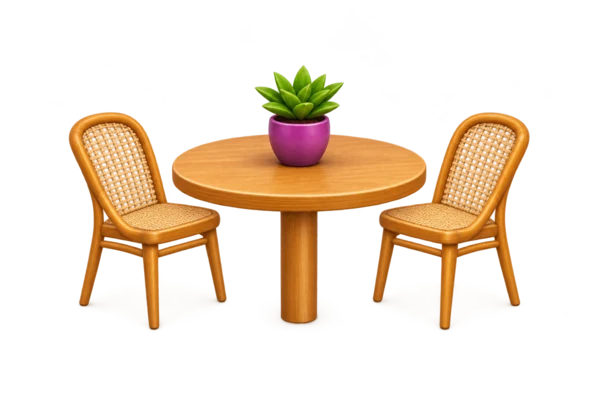
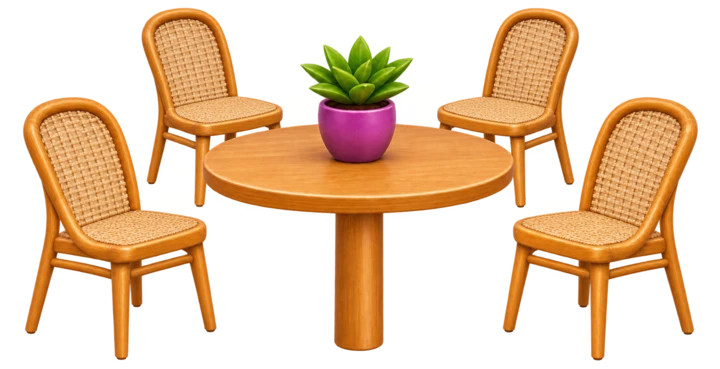
Sinaliza conta solicitada e usa ilustração com quatro cadeiras

diff --git a/erp/public/app.js b/erp/public/app.js
@@ -356,15 +356,31 @@ function tables() {
         '</strong></span><span class="finance-table-balance">Saldo <strong>'+money(balance)+'</strong></span></span>'+
         '<span class="finance-table-progress"><span aria-hidden="true"><i style="width:'+percent+'%"></i></span><span>'+percent+
         '% pago</span></span>'+(settled?'<span class="finance-table-note">Aguardando encerramento</span>':'')+
+        (t.billRequestedAt&&!settled?'<span class="table-bill-request">Conta solicitada</span>':'')+
         '<span class="finance-table-action">Conferir</span>':'')+'</button>';
   }).join('')+'</div></section>';
+}
+function requestTableBill(){
+  const expected=tableOrder();
+  if(!expected?.opened || tableTotal(expected)<=tablePaid(expected)){
+    notice('A comanda precisa ter saldo para solicitar a conta.');
+    return;
+  }
+  const requestedAt=expected.billRequestedAt?null:date();
+  fields(requestedAt?'Solicitar conta':'Limpar aviso da conta','<p>Mesa '+esc(expected.id)+'</p>',async ()=>{
+    await save(next=>{
+      const table=sameTable(next,expected);
+      if(requestedAt && tableTotal(table)<=tablePaid(table))throw review('A comanda já está quitada.');
+      table.billRequestedAt=requestedAt;
+    },true);
+  },requestedAt?'Solicitar conta':'Limpar aviso');
 }
 function openTable(id) {
   const t = data.tables.find(table=>table.id===id);
   const enter = () => { saleMode='comanda'; comandaTarget=id; selectedTable=id; selectedOpening=tableOrder().opened; view='sales'; };
   if (t.opened) { enter(); render(); void refreshTables(); return; }
   fields('Abrir mesa ' + id, input('Nome da mesa / cliente','name','','text','maxlength="100"'), async v => {
-    await save(next => Object.assign(sameTable(next,t), {name:v.name.trim(),opened:date(),service:true}), true);
+    await save(next => Object.assign(sameTable(next,t), {name:v.name.trim(),opened:date(),service:true,billRequestedAt:null}), true);
     enter();
   },'Abrir mesa');
 }
@@ -430,6 +446,7 @@ function receiveTable(partial=false){
           if(creditGroup)next.bills.push({id:crypto.randomUUID(),kind:'receber',saleId:id,party:customer.id,
             description:'Venda '+id.slice(0,8),amount:total,due:due.value,paid:null});
         }
+        if(tablePaid(current)>=tableTotal(current))current.billRequestedAt=null;
       },true);
       notice(change?'Pagamento registrado. Troco: '+money(change):'Pagamento registrado.');
     },'Confirmar pagamento');
@@ -491,7 +508,7 @@ function moveTable(){
     await save(next=>{
       const from=sameTable(next,source), to=sameTable(next,target);
       Object.assign(to,{...from,id:to.id});
-      Object.assign(from,{name:'',opened:null,items:[],payments:[],service:false});
+      Object.assign(from,{name:'',opened:null,items:[],payments:[],service:false,billRequestedAt:null});
     },true);
     selectedTable=comandaTarget=target.id;
     selectedOpening=source.opened;
@@ -509,7 +526,7 @@ function closeTable() {
       if (tableTotal(table)!==tablePaid(table) || table.items.length!==t.items.length || table.payments.length!==t.payments.length)
         throw review('A comanda mudou. Confira o consumo e os pagamentos.');
       next.closedTables.push({...structuredClone(table),id:table.id,receiptId:operationId,closed:date()});
-      Object.assign(table,{name:'',opened:null,items:[],payments:[],service:false});
+      Object.assign(table,{name:'',opened:null,items:[],payments:[],service:false,billRequestedAt:null});
     },true);
     const closed=data.closedTables.find(t=>t.receiptId===operationId);
     selectedTable=null;comandaTarget='';view='tables';
@@ -533,7 +550,7 @@ function cancelTable(){
         (next.tableCancellations??=[]).push({id:operationId,time:date(),table:t.id,customer:current.name,
           operator:session?.name||session?.login||'Caixa local',items:current.items,payments:current.payments,
           draft,total,paid,balance,draftTotal:sum(draft,'total')});
-        Object.assign(current,{name:'',opened:null,items:[],payments:[],service:false});
+        Object.assign(current,{name:'',opened:null,items:[],payments:[],service:false,billRequestedAt:null});
       },true);
       cart={};buyer=null;selectedTable=null;selectedOpening=null;comandaTarget='';counterService=true;view='tables';
       notice('Comanda cancelada. A mesa está livre.');
@@ -717,6 +734,7 @@ function openComandaCards(){
     return '<article class="open-comanda-card"><div class="open-comanda-heading"><span>'+icon+'</span><div><strong>'+esc(label)+'</strong>'+
       (table.name?'<small>'+esc(table.name)+'</small>':'')+'</div></div><div class="open-comanda-info"><span>'+
       count+(count===1?' item':' itens')+'</span><strong>'+money(tableTotal(table)-tablePaid(table))+'</strong></div>'+
+      (table.billRequestedAt&&tableTotal(table)>tablePaid(table)?'<span class="table-bill-request">Conta solicitada</span>':'')+
       '<button class="primary" data-table="'+esc(table.id)+'" aria-label="Conferir '+esc(label)+'">Conferir</button></article>';
   }).join('')+'</div>':'<p>Nenhuma mesa aberta com pedidos.</p>');
 }
@@ -755,7 +773,7 @@ function sales(){
       '<button class="primary wide" type="button" data-pay="" '+(lines.length?'':'disabled')+'>Salvar itens</button>';
     const actions=document.createElement('div');
     actions.className='comanda-review-actions';
-    actions.innerHTML='<button data-rename>Editar nome</button><button data-move-table>Mudar mesa</button>'+
+    actions.innerHTML=(tableTotal(t)>paid?'<button class="table-bill-request" data-request-table-bill>'+(t.billRequestedAt?'Conta solicitada · Limpar aviso':'Solicitar conta')+'</button>':'')+'<button data-rename>Editar nome</button><button data-move-table>Mudar mesa</button>'+
       '<button data-print-order>Espelho da comanda</button><button data-fee aria-pressed="'+Boolean(t.service)+'">'+(t.service?'Retirar':'Incluir')+' 10%</button>'+
       '<button data-table-receive="partial">Pagamento parcial</button><button class="comanda-danger" data-table-cancel>Cancelar comanda</button>';
     const footer=document.createElement('div');
@@ -1737,6 +1755,7 @@ document.addEventListener('click',e=>{
   if(d.identify!==undefined){if(dialog.open)dialog.close();identifyBuyer();return;}
   if(d.collect!==undefined){if(dialog.open)dialog.close();receiveCredit();return;}
   if(d.table)openTable(d.table);
+  if(d.requestTableBill!==undefined && selectedTable && canView('sales'))requestTableBill();
   if(d.printOrder!==undefined)printOrder();
   if(d.tableReceive!==undefined)receiveTable(d.tableReceive==='partial');
   if(d.moveTable!==undefined)moveTable();

diff --git a/erp/public/style.css b/erp/public/style.css
@@ -636,3 +636,8 @@ dialog:has(#table-tenders) button.primary:disabled {
 .finance-table-progress i { display:block; height:100%; background:#21864b; border-radius:inherit; }
 .finance-table-note { background:#ffe2ab; border-radius:5px; padding:3px; color:#583509; font-size:.7rem; }
 .finance-table-action { margin-top:auto; width:100%; padding:5px 4px; border-radius:7px; color:#fff; background:#701b33; font-weight:700; }
+
+.table-bill-request {
+  display:block; width:100%; border:1px solid #bc7932; border-radius:7px;
+  padding:5px 6px; background:#fff1cc; color:#653a04; font-weight:700; font-size:.8rem;
+}
